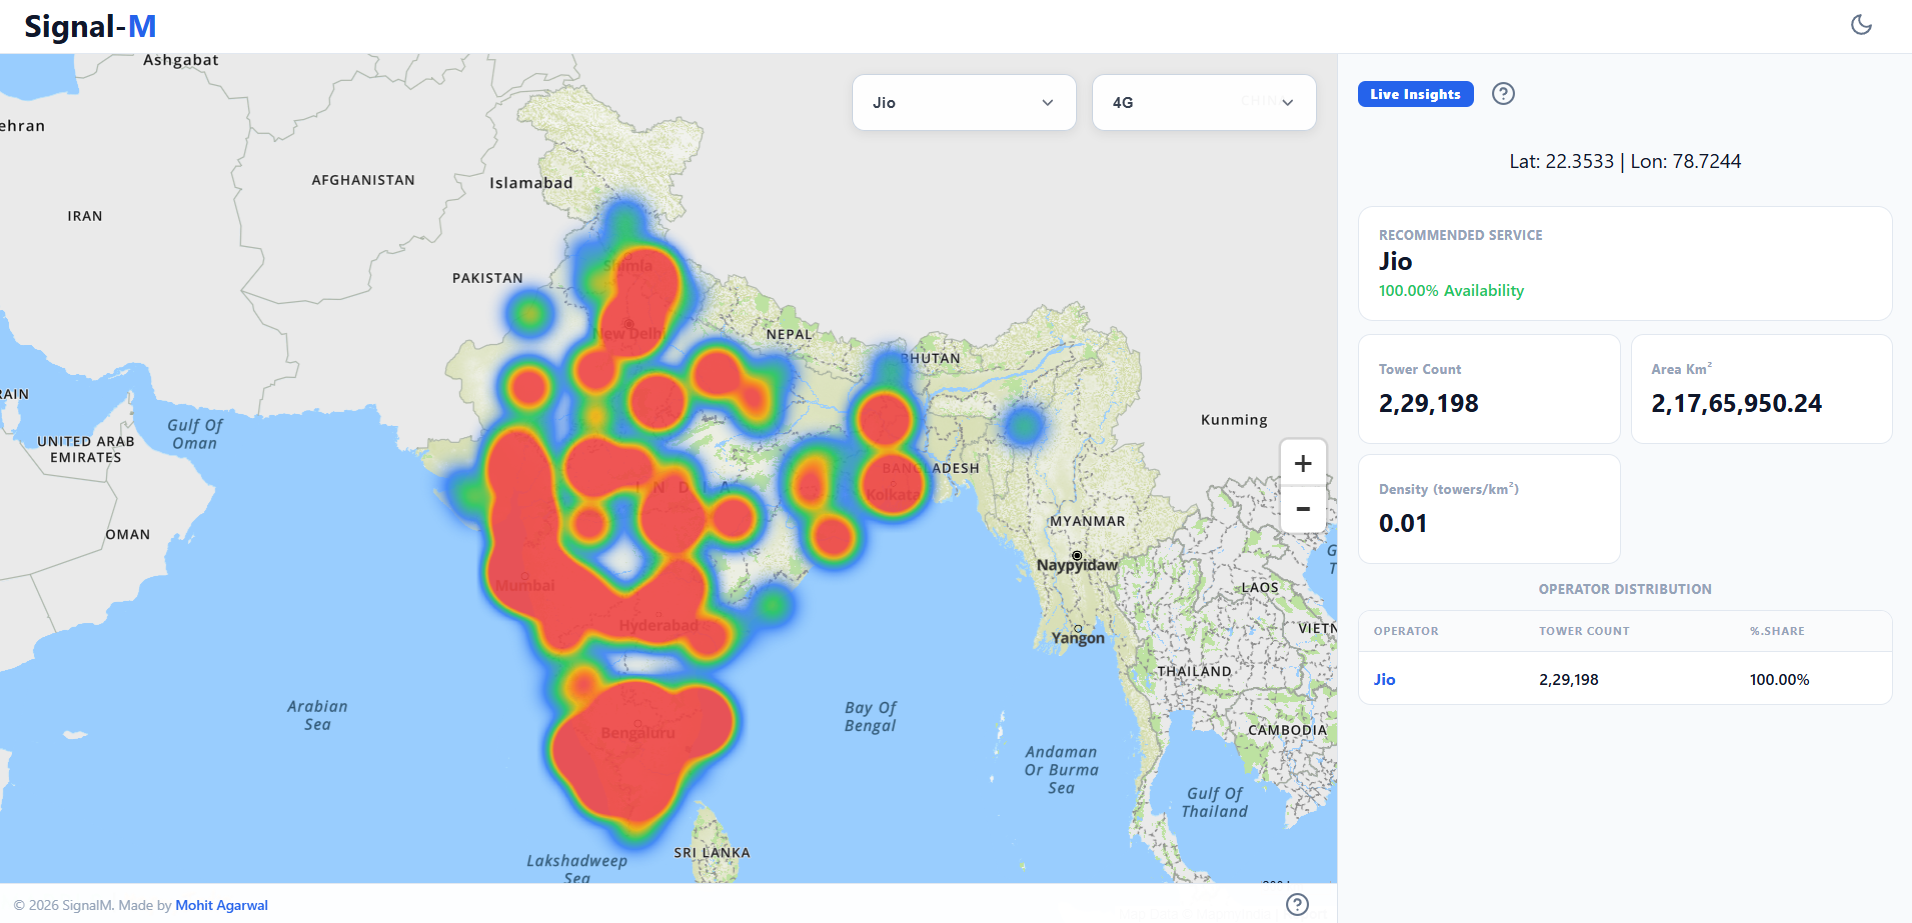
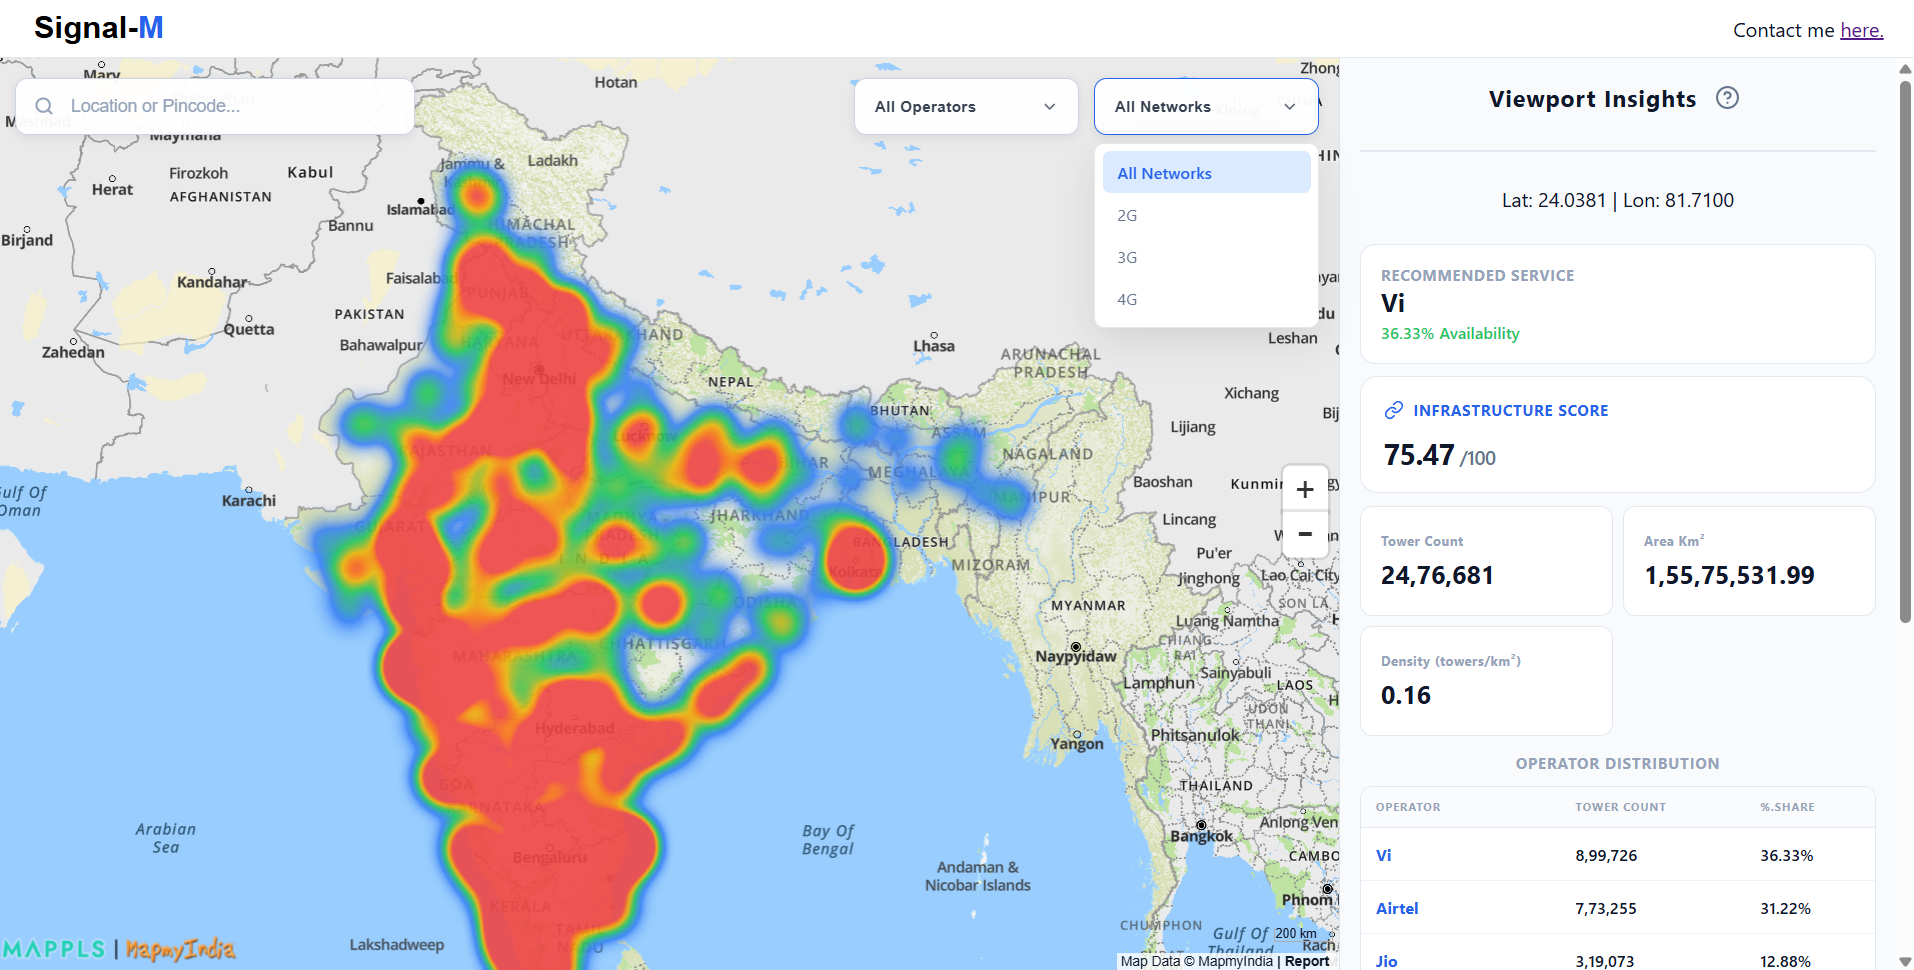
Update readme and add some new pictures

diff --git a/README.md b/README.md
@@ -1,23 +1,35 @@
 # Signal-M
 
 Going somewhere and have no idea which cell operator will actually work there?
-I had the same issue, so I built Signal Map an interactive map that visualizes cellular tower data across India and gives you useful insights to make the right decision.
+I had the same issue, so I built Signal Map: an interactive map that visualizes cellular tower data across India and gives you useful insights to make the right decision.
 
 Check it out: [signal-map-beryl.vercel.app](https://signal-map-beryl.vercel.app/)
 
 ## Screenshots
 
-### Dashboard Overview
+<table>
+  <tr>
+    <td align="center"><strong>Dashboard Overview</strong></td>
+    <td align="center"><strong>Heatmap Overview</strong></td>
+  </tr>
+  <tr>
+    <td><img src="./assets/dashboard.png" width="100%" alt="Dashboard overview"></td>
+    <td><img src="./assets/heatmap.png" width="100%" alt="Heatmap overview"></td>
+  </tr>
+  <tr>
+    <td align="center"><strong>Tower Overview</strong></td>
+    <td align="center"><strong>Insights</strong></td>
+  </tr>
+  <tr>
+    <td><img src="./assets/towers.png" width="100%" alt="Tower overview"></td>
+    <td><img src="./assets/insights.png" width="100%" alt="Insights overview"></td>
+  </tr>
+</table>
 
-![Dashboard overview](./assets/Dashboard.png)
-
-### Heatmap zoomed Overview
-
-![Heatmap zoomed overview](./assets/Heatmap%20zoom.png)
-
-### Tower zoomed Overview
-
-![Tower zoomed overview](./assets/Tower%20zoom.png)
+<p align="center">
+  <strong>Dashboard Overview (Mobile)</strong><br/>
+  <img src="./assets/mobile.png" width="35%" alt="Dashboard mobile overview">
+</p>
 
 ## Stack
 
@@ -38,24 +50,24 @@ These optimizations keep latency low even for large viewports.
 
 ## Features
 
-- Heatmap layer — signal density and strength across regions.
-- Raw tower layer — per-tower inspection and filtering by operator.
+- Heatmap layer - signal density and strength across regions.
+- Raw tower layer - per-tower inspection and filtering by operator.
 - Best-network recommendation for the current viewport.
-- Viewport stats — tower count, per-operator coverage percentages, area (km²), and tower density (towers/km²) for the current viewport.
-- Viewport-optimized fetching — limits API calls during map interaction.
-- Infrastructure scoring — a client-side viewport-level score (0–100) computed from radio tech mix, operator diversity, and coverage.
-- Search — backend geocode proxy and frontend search UI for location and tower lookup.
+- Viewport stats - tower count, per-operator coverage percentages, area (km^2), and tower density (towers/km^2) for the current viewport.
+- Viewport-optimized fetching - limits API calls during map interaction.
+- Infrastructure scoring - a client-side viewport-level score (0-100) computed from radio tech mix, operator diversity, and coverage.
+- Search - backend geocode proxy and frontend search UI for location and tower lookup.
 
 ## API (selected endpoints)
 
-- `GET /towers` — fetch towers in bounds (params: `min_lat`, `max_lat`, `min_lon`, `max_lon`, `limit`, `offset`, `network`, `operator`).
-- `GET /towers/count` — tower count in bounds.
-- `GET /towers/heatmap` — heatmap points (includes `zoom`).
-- `GET /towers/operator` — per-operator distribution in bounds.
-- `GET /towers/network` — per-network (radio) distribution in bounds.
-- `GET /search/fgeocode?q=<query>` — backend geocode proxy (requires `GEOCODE_API_KEY`).
+- `GET /towers` - fetch towers in bounds (params: `min_lat`, `max_lat`, `min_lon`, `max_lon`, `limit`, `offset`, `network`, `operator`).
+- `GET /towers/count` - tower count in bounds.
+- `GET /towers/heatmap` - heatmap points (includes `zoom`).
+- `GET /towers/operator` - per-operator distribution in bounds.
+- `GET /towers/network` - per-network (radio) distribution in bounds.
+- `GET /search/fgeocode?q=<query>` - backend geocode proxy (requires `GEOCODE_API_KEY`).
 
-## Implementation notes
+## Implementation Notes
 
 - Scoring: `frontend/src/utils/getInfrastructureScore.js` (tech, operator diversity, coverage).
 - Towers API: `backend/src/routes/towers_routes.py` and `backend/src/controllers/towers_controller.py`.
